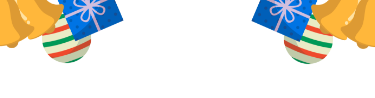
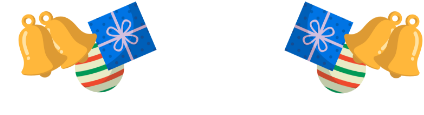
ajustes v2

diff --git a/src/components/novenas/novena.js b/src/components/novenas/novena.js
@@ -5,7 +5,7 @@ import borderRed from './../../assets/img/border-red.png';
 import borderYellow from './../../assets/img/border-yellow.png';
 import chispas from './../../assets/img/chispas.png';
 import mascara from './../../assets/img/mascara.png';
-import novenaTop from './../../assets/img/novena-top.svg';
+import novenaTop from './../../assets/img/novena-top2.png';
 import novenaBottom from './../../assets/img/novena-bottom.svg';
 import dayTop from './../../assets/img/day-top.png';
 import dayBottom from './../../assets/img/day-bottom.png';
@@ -19,10 +19,25 @@ export const StyleNovena = styled.div`
     min-height: 100vh
   }
   .close {
-    color: white;
-    text-decoration: none;
-    margin-bottom: 1.5em;
     display: inline-block;
+    float: right;
+    text-decoration: none;
+    margin: .5em;
+  }
+  .flex {
+    margin-bottom: 1em;
+    clear: both;
+    display: block;
+    overflow: hidden;
+  }
+  .img-comparte img {
+    width: 80%;
+  }
+  .list-novena {
+    height: 100%;
+    max-height: calc(100vh - 109vw);
+    overflow-x: hidden;
+    overflow-y: scroll;
   }
   .day-home-wrap {
     height: calc(100vh - 2em);
@@ -52,8 +67,9 @@ export const StyleNovena = styled.div`
     left: 0;
     width: 100%;
     height: 4.4em;
-    background: url("${dayBottom}") center top/100% no-repeat;
+    background: url("${dayBottom}") center top/119% no-repeat;
   }
+  .comparte a,
   .list-novena a {
     min-width: calc(100% - 8em);
     display: inline-block;
@@ -67,6 +83,33 @@ export const StyleNovena = styled.div`
     background: #fff;
     box-shadow: 0 3px 3px rgb(0 0 0 / 14%);
   }
+  .comparte p {
+    color: white;
+    margin-bottom: 1em;
+  }
+  .arrow {
+    position: absolute;
+    bottom: 1.8em;
+    left: 50%;
+    transform: rotate(45deg) translateX(-50%);
+    width: 14px;
+    height: 14px;
+    border-bottom: 2px solid #fff;
+    border-right: 2px solid #fff;
+    border-radius: 3px;
+  }
+  .arrow:before {
+    content:'' ;
+    position absolute;
+    top: -5px;
+    left: -5px;
+    width: 14px;
+    height: 14px;
+    border-bottom: 2px solid #fff;
+    border-right: 2px solid #fff;
+    border-radius: 3px;
+  }
+
 `;
 
 export const PortadaDay = styled.div`
@@ -78,8 +121,8 @@ export const PortadaDay = styled.div`
     min-height: 100vh
   }
   .portada-day {
-    height: calc(100vh - 2em);
-    padding: 13% 0;
+    height: calc(100vh - 2em - 0.5em - 1.5em);
+    padding: 22% 0;
     text-align: center;
     border-style: solid;
     border-width: 10px 10px 10px 10px;
@@ -95,13 +138,14 @@ export const PortadaDay = styled.div`
     top: 0;
     left: 0;
     width: 100%;
-    height: 6.5em;
-    background: url("${novenaTop}") center bottom/100% no-repeat;
+    height: 4em;
+    // background: url("${novenaTop}") center bottom/100% no-repeat;
+    background: url("${novenaTop}") center 88%/96% no-repeat;
   }
   .portada-day:after {
     content: '';
     position: absolute;
-    bottom: 0;
+    bottom: calc(2.5em + 1.9em);
     left: 0;
     width: 100%;
     height: 7.4em;
@@ -129,7 +173,24 @@ export const PortadaDay = styled.div`
     box-shadow: 0 3px 3px rgb(0 0 0 / 14%);
   }
 `;
-
+export const Tabs = styled.div`
+  background: #AE2424;
+  padding: 0.5em;
+  margin: 0 -1.1em;
+  display: flex;
+  justify-content: flex-end;
+  box-shadow: 0 0 0 5px #AE2424;
+  a {
+    flex: 0 0 50%;
+    text-decoration: none;
+    display: block;
+    padding: .5em 1em;
+    color: #fff;
+  }
+  a:last-child {
+    border-left: 1px solid #D66C6C;
+  }
+`;
 export const Oracion = styled.div`
   background: url("${mascara}") center/cover no-repeat #AE2424;
   padding: 1em 1.1em;

diff --git a/src/page/style.js b/src/page/style.js
@@ -1,10 +1,10 @@
 import styled from "styled-components";
 
-import border from './../assets/img/border-red.png';
+import border from './../assets/img/border-green.png';
 import mascara from './../assets/img/mascara.png';
 import chispas from './../assets/img/chispas.png';
-import topBalls from './../assets/img/top-balls.png';
-import bottomBalls from './../assets/img/bottom-bolas.png';
+import Ballstop from './../assets/img/balls-top.png';
+import BallsBottom from './../assets/img/balls-bottom.png';
 
 export const AppContent = styled.div`
   position: relative;
@@ -16,10 +16,10 @@ export const AppContent = styled.div`
 export const AppMain = styled.div`
   background: url("${mascara}") center/cover no-repeat #AE2424;
   padding: 1em 1.1em;
-  padding: 0 1.1em;
   position: relative;
   @media (max-width: 768px){
-    min-height: 100vh
+    min-height: 100vh;
+    max-height: 100vh;
   }
   :before {
     content: '';
@@ -27,20 +27,21 @@ export const AppMain = styled.div`
     top: 0;
     left: 0;
     width: 100%;
-    height: 10%;
-    background: url("${topBalls}") center bottom/cover no-repeat;
+    height: 4em;
+    background: url("${Ballstop}") center bottom/100% no-repeat;
   }
   :after {
     content: '';
-    position: fixed;
+    position: absolute;
     bottom: 0;
     left: 0;
     width: 100%;
-    height: 21%;
-    background: url("${bottomBalls}") center top/cover no-repeat;
+    height: 7em;
+    background: url("${BallsBottom}") center top/106% no-repeat;
   }
   .wrapper {
     height: 100%;
+    max-height: calc(100vh - 2em);
     // max-height: calc(100vh - 2em - 9px);
     padding: 13% 0;
     text-align: center;
@@ -50,6 +51,13 @@ export const AppMain = styled.div`
     background-position: center, center;
     background-repeat: no-repeat;
     background-size: 182%, cover;
+  }
+  .overflow {
+    overflow-x: hidden;
+    overflow-y: scroll;
+  }
+  .picture {
+    margin-top: 2em;
   }
   .picture img {
     width: 100%
@@ -66,10 +74,13 @@ export const AppMain = styled.div`
   }
   .button-menu {
     margin: 5% 0 15%;
-    height: 50%;
+    overflow-x: hidden;
+    overflow-y: scroll;
+    height: calc(100vh - 122vw);
+    padding-top: .5em;
   }
   .button-menu a {
-    min-width: calc(100% - 5em);
+    min-width: 63%;
     display: inline-block;
     font-size: 1rem;
     color: #08B761;
@@ -77,7 +88,7 @@ export const AppMain = styled.div`
     text-decoration: none;
     border-radius: 20px;
     padding: .5em 2.5em;
-    margin-bottom: 7%;
+    margin-bottom: 1em;
     background: #fff;
     box-shadow: 0 3px 3px rgb(0 0 0 / 14%);
   }

diff --git a/src/page/home.js b/src/page/home.js
@@ -15,25 +15,27 @@ function Home(){
   return (
     <AppMain>
       <div className="wrapper">
-        <BtnMain onClick={toggleMenu} className="primary-button navbar-toggler btn-main">
-          <span className="navbar-toggler-icon"></span>
-        </BtnMain>
-        <div className="picture">
-          <img src={logo} alt="" />
-        </div>
-        {/* <Title><span>Comparte</span> en navidas con </Title> */}
-        <div className="columns">
-          <div className="columns-items">
-            <img src={superRicas} alt="" />
+        <div className="overflow">
+          <BtnMain onClick={toggleMenu} className="primary-button navbar-toggler btn-main">
+            <span className="navbar-toggler-icon"></span>
+          </BtnMain>
+          <div className="picture">
+            <img src={logo} alt="" />
           </div>
-          <div className="columns-items">
-            <img src={todoRico} alt="" />
+          {/* <Title><span>Comparte</span> en navidas con </Title> */}
+          <div className="columns">
+            <div className="columns-items">
+              <img src={superRicas} alt="" />
+            </div>
+            <div className="columns-items">
+              <img src={todoRico} alt="" />
+            </div>
           </div>
+          <Menu
+            type="1">
+          </Menu>
+          <RoutePage/>
         </div>
-        <Menu
-          type="1">
-        </Menu>
-        <RoutePage/>
       </div>
     </AppMain>
   )

diff --git a/src/components/novenas/christmas_novena.js b/src/components/novenas/christmas_novena.js
@@ -19,9 +19,18 @@ class ChristmasNovena extends React.Component {
       <StyleNovena>
       <div className = "day-home-wrap">
         <div className='flex'>
-          <Link to={`/`} className="close"> X </Link>
+          <Link to={`/`} className="close">
+            <svg xmlns="http://www.w3.org/2000/svg" width="15.795" height="16.618" viewBox="0 0 15.795 16.618">
+              <g transform="translate(1496.152 -2409.058)">
+                <rect width="19.806" height="3.127" rx="1.564" transform="translate(-1493.865 2409.058) rotate(47)" fill="#fff"/>
+                <rect width="19.806" height="3.127" rx="1.564" transform="translate(-1480.358 2411.191) rotate(133)" fill="#fff"/>
+              </g>
+            </svg>
+          </Link>
         </div>
-        <img src={diasHome} alt="" />
+        <div className="img-comparte">
+          <img src={diasHome} alt="" />
+        </div>
         {/* <h2><span>comparte en familia</span>las novenas<span>navideñas</span></h2> */}
         <div className = "list-novena">
           <ul>
@@ -32,6 +41,11 @@ class ChristmasNovena extends React.Component {
             ))}
           </ul>
         </div>
+        <div className="comparte">
+          <p>Compra aquí todos los productos <br/>Super Ricas y Todo Rico</p>
+          <a href="https://www.superricas.com/recetariosuperricas">Comprar</a>
+        </div>
+        <div className="arrow"></div>
       </div>
       </StyleNovena>
     );

diff --git a/src/components/novenas/day_novena.js b/src/components/novenas/day_novena.js
@@ -3,7 +3,7 @@ import React from 'react';
 import { Link } from "react-router-dom";
 import Constants from '../../constants/constants';
 import Buy from '../../util/buy.js';
-import { PortadaDay } from './novena';
+import { PortadaDay, Tabs } from './novena';
 
 // imagenes
 import PortadaHome from "./../../assets/img/portada-logo.png";
@@ -27,12 +27,10 @@ class DayNovena extends React.Component {
             <div>
               <Buy url={this.state.post[0].field_link_compra}></Buy>
             </div>
-            <div>
-                <Link to={`/novena/dia/${this.state.post[0].id}`}>
-                  <button>comenzar</button>
-                </Link>
-            </div>
           </div>
+          <Tabs>
+            <Link to={`/novena/dia/${this.state.post[0].id}`}>comenzar</Link>
+          </Tabs>
         </PortadaDay>
       );
     }else{

diff --git a/src/menu/style.js b/src/menu/style.js
@@ -29,6 +29,9 @@ export const Collapse = styled.div`
   button:focus {
     outline: transparent;
   }
+  .button-menu {
+    clear: both;
+  }
   ul {
     padding: 1em 0;
   }
@@ -40,6 +43,22 @@ export const Collapse = styled.div`
     text-decoration: none;
     text-transform: capitalize;
     margin-bottom: 1.5em;
+    position: relative;
+  }
+  .true > div > a: before {
+    content: '';
+    border: 0;
+    height: 11px;
+    width: 11px;
+    border-bottom: 3px solid white;
+    border-right: 3px solid white;
+    border-radius: 3px;
+    position: absolute;
+    top: 50%;
+    right: 5%;
+    transform: translateY(-50%) rotate(45deg);
+    z-index: 2;
+    cursor: pointer;
   }
 `;
 /* export const LiItem = styled.li`

diff --git a/src/GlobalStyles.js b/src/GlobalStyles.js
@@ -3,9 +3,13 @@ import styled, { createGlobalStyle } from 'styled-components';
 export const LiItem = styled.li`
   //background-color:  ${props => props.theme.fg};;
   border-radius: 20px;
+  list-style: none;
   //color:  ${props => props.theme.c};
   a{
     color: ${props => props.primary ? "red" : "palevioletred"};
+  }
+  .button-menu {
+    padding: 2em 0;
   }
 `;
 
